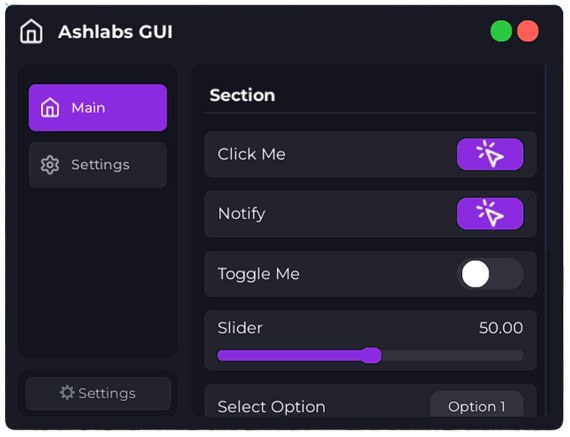
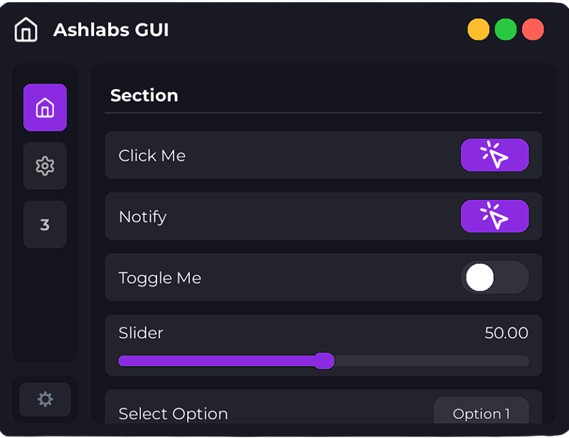
Changes to be committed: 	modified:   README.md 	deleted:    assets/image-old.png 	deleted:    assets/image.png 	modified:   assets/preview/README.md 	new file:   assets/preview/mobile-shortcut.png 	modified:   assets/preview/mobile.png 	modified:   assets/preview/pc.png 	modified:   build/source-de

diff --git a/README.md b/README.md
@@ -1,9 +1,10 @@
 <p align="center">
-    <img src="./assets/preview/pc.png" alt="Ash-Libs Logo" />
+    <img src="./assets/preview/pc.png" alt="Ash-Libs Logo" width="350"/>
+    <img src="./assets/preview/mobile.png" alt="Ash-Libs Logo" width="300"/>
 </p>
 
 <h3 align="center">
-    Ash-Libs is a GUI library for Roblox featuring a minimalist, modern, and lightweight design<br> It helps developers create intuitive and responsive user interfaces without impacting game performance.
+    Ash-Libs is a simple design, responsive, and easy-to-use GUI library for Roblox
 </h3>
 
 ## Content

diff --git a/assets/preview/README.md b/assets/preview/README.md
@@ -1,5 +1,8 @@
 # PC
 ![Preview PC](./pc.png)
 
-# Mobile
+# Mobile Responsive
 ![Preview Mobile](./mobile.png)
+
+# Mobile Shortcut
+![Preview Shortucut](./mobile-shortcut.png)
